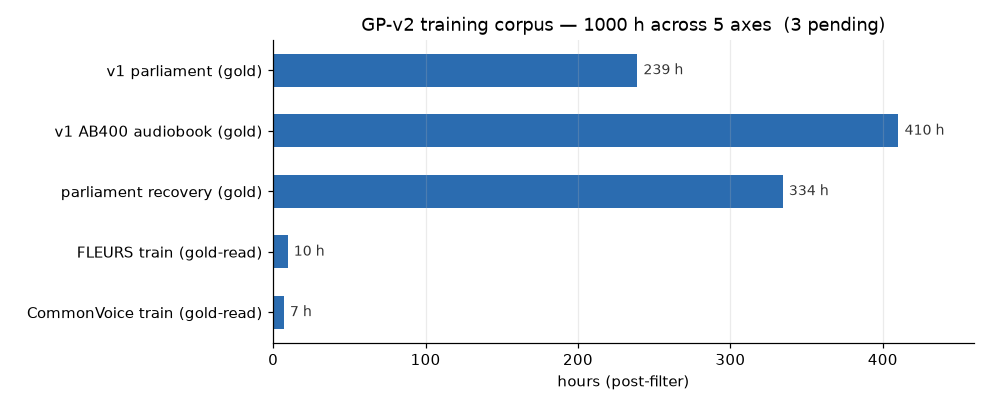
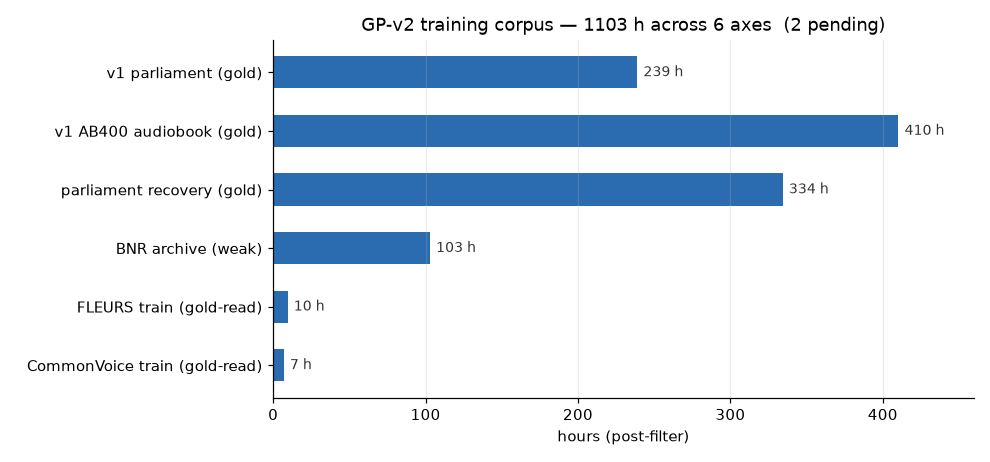
BNR axis closed: 34,425 cuts / 102.9h — recorded in plan + live notebook

Changed region(s): [[0.0303, 0.1179, 1.0, 0.973], [0.3636, 0.0295, 0.9091, 0.0885]]

diff --git a/docs/BG_ASR_BNR_PLAN.md b/docs/BG_ASR_BNR_PLAN.md
@@ -1,5 +1,12 @@
 # BNR archive harvest — plan (diverse audio for general-purpose ASR)
 
+> **✅ AXIS CLOSED 2026-08-05: `data/fbank/bg_cuts_bnr.jsonl.gz` = 34,425 cuts / 102.9 h.**
+> Funnel: 1,035 posts / 3,006 mp3s / ~220 h crawled → 126.7 h speech after the music
+> quarantine (58 %) → 87.8 h accepted by the faithfulness filter → +15.1 h recovered by
+> Zipformer arbitration (79 % of bg-lang rejects) → 102.9 h cut at 80-dim fbank/16 kHz.
+> Audited: 24.9 % inter-model disagreement on accepts (≈ single-digit label error), native
+> listening calibrated --lang-prob. Broken-header lesson lives in BG_ASR_V2_PLAN.
+
 **Status:** drafted 2026-08-04, exploratory. Feeds the **general-purpose** pivot
 ([BG_ASR_ROADMAP.md](BG_ASR_ROADMAP.md) phase 2 / [bg-asr-general-purpose-pivot memory]).
 Goal: harvest **domain-diverse Bulgarian audio** from the Bulgarian National Radio archives
